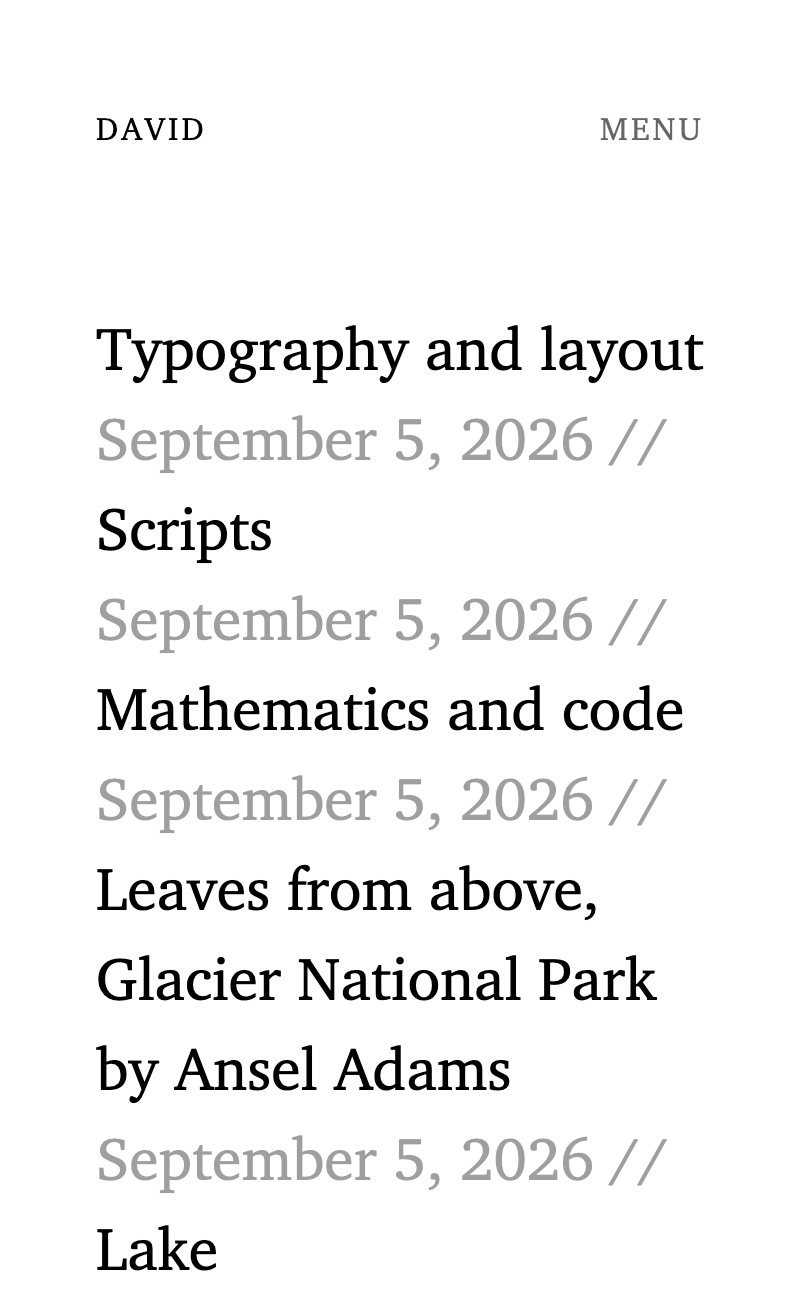
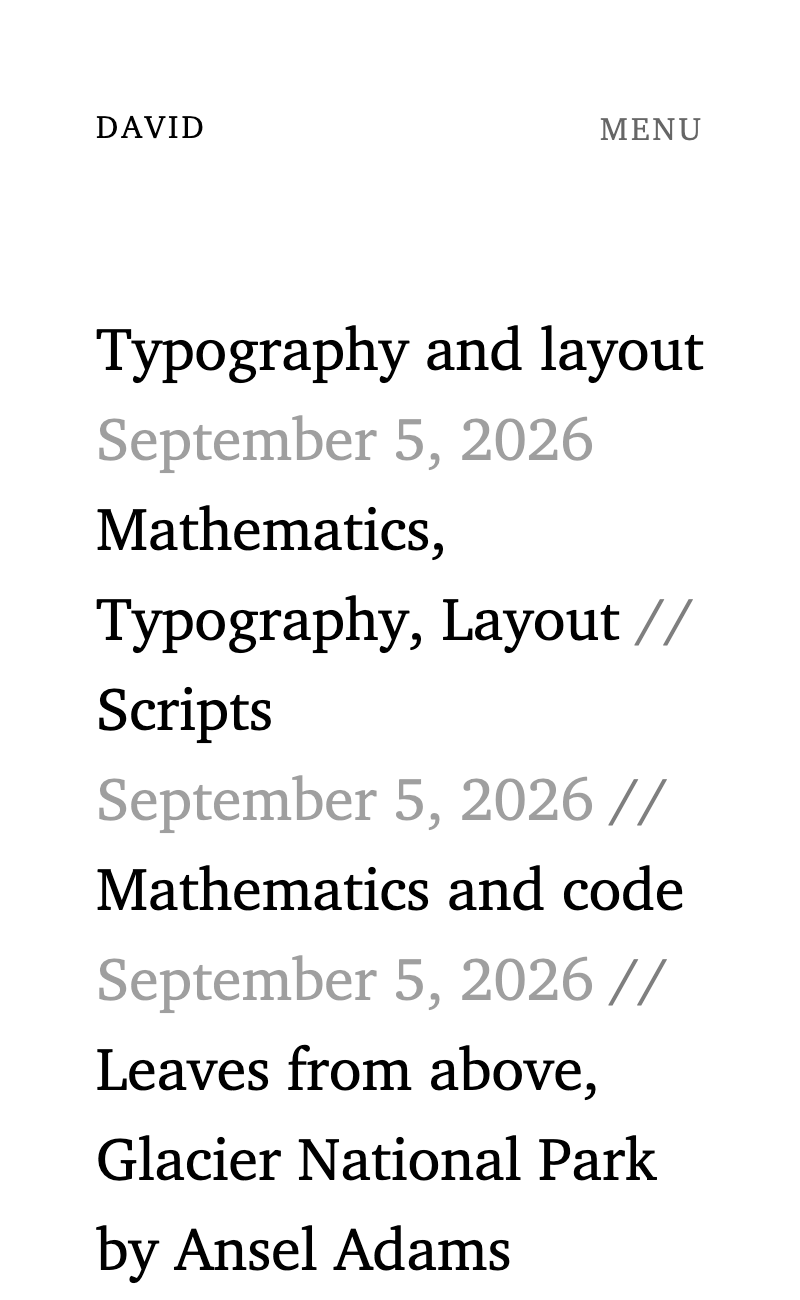
Expose Zine template settings as dashboard controls (#1667)
* Expose Zine template settings as dashboard controls

Wire unused date hiding, add heading/code fonts, logo/favicon uploads,
navigation alignment, sticky/collapsible menu, reading width, index
layout, and a tags toggle so authors can configure the template from
the dashboard.

* Updates screenshots of templates

* Fix Zine template dashboard controls

* Updates screenshots of templates

---------

diff --git a/app/templates/source/zine/style.css b/app/templates/source/zine/style.css
@@ -1,5 +1,6 @@
 {{{app_css}}}
 {{{body_font.styles}}}
+{{{heading_font.styles}}}
 {{{syntax_highlighter_font.styles}}}
 {{{syntax_highlighter.styles}}}
 
@@ -21,9 +22,16 @@ body {
 }
 
 .container {
-  max-width: 672px;
+  max-width: {{max_width}}px;
   padding: 3em 0 5em;
   margin: 0 auto;
+}
+
+.entries,
+.pagination {
+  max-width: {{max_width}}px;
+  margin-left: auto;
+  margin-right: auto;
 }
 
 .entries {
@@ -42,6 +50,11 @@ body {
 
 .entries a + span {opacity:0.75}
 
+{{#is.index_layout.list}}
+.entries .entry-item {display: block;}
+.entries .entry-sep {display: none;}
+{{/is.index_layout.list}}
+
 .light {
   color: rgba({{#rgb}}{{text_color}}{{/rgb}}, 0.5);
 }
@@ -50,7 +63,19 @@ body {
   text-decoration: none; color: inherit
 }
 
-h1, h2, h3, h4, h5, h6 {font-size: inherit;}
+h1, h2, h3, h4, h5, h6 {
+  {{#heading_font}}
+  font-family: {{{stack}}};
+  line-height: {{{line_height}}};
+  {{/heading_font}}
+}
+
+h1 { font-size: {{{heading_font.font_size}}}px; }
+h2 { font-size: calc({{{heading_font.font_size}}}px * 0.83); }
+h3 { font-size: calc({{{heading_font.font_size}}}px * 0.67); }
+h4 { font-size: calc({{{heading_font.font_size}}}px * 0.56); }
+h5 { font-size: calc({{{heading_font.font_size}}}px * 0.46); }
+h6 { font-size: calc({{{heading_font.font_size}}}px * 0.38); }
 
 h2, h3 {margin-top: 2em}
 
@@ -70,7 +95,26 @@ h1 a {
   align-items: stretch;
   gap: 0.5em;
   margin-bottom: 2em;
+  {{#is.navigation_alignment.left}}
+  align-items: flex-start;
+  {{/is.navigation_alignment.left}}
+  {{#is.navigation_alignment.right}}
+  align-items: flex-end;
+  {{/is.navigation_alignment.right}}
+  {{#is.navigation_alignment.center}}
+  align-items: center;
+  {{/is.navigation_alignment.center}}
 }
+
+{{#sticky_navigation}}
+.site-header {
+  position: sticky;
+  top: 0;
+  z-index: 2;
+  background: {{background_color}};
+  padding-top: 0.25em;
+}
+{{/sticky_navigation}}
 
 .site-nav-toggle-input {
   position: absolute;
@@ -87,18 +131,42 @@ h1 a {
 .site-header-bar {
   display: flex;
   align-items: center;
-  justify-content: space-between;
   gap: 0.5em;
+  {{#is.navigation_alignment.justified}}
+  justify-content: space-between;
+  {{/is.navigation_alignment.justified}}
+  {{#is.navigation_alignment.left}}
+  justify-content: flex-start;
+  {{/is.navigation_alignment.left}}
+  {{#is.navigation_alignment.right}}
+  justify-content: flex-end;
+  {{/is.navigation_alignment.right}}
+  {{#is.navigation_alignment.center}}
+  justify-content: center;
+  {{/is.navigation_alignment.center}}
 }
 
 .site-title {
-  font-size: calc({{{body_font.font_size}}}px * 0.6667);
+  {{#heading_font}}
+  font-family: {{{stack}}};
+  font-size: {{{font_size}}}px;
+  line-height: {{{line_height}}};
+  {{/heading_font}}
   font-weight: 400;
   margin: 0;
 }
 
+.site-title img {
+  max-height: 1.5em;
+  width: auto;
+  vertical-align: middle;
+}
+
 .site-menu-toggle {
-  font-size: calc({{{body_font.font_size}}}px * 0.6667);
+  {{#heading_font}}
+  font-family: {{{stack}}};
+  font-size: {{{font_size}}}px;
+  {{/heading_font}}
   text-transform: uppercase;
   letter-spacing: 0.1em;
   color: rgba({{#rgb}}{{text_color}}{{/rgb}}, 0.6);
@@ -134,6 +202,12 @@ h1 a {
   display: flex;
   flex-direction: column;
   gap: 0.5em;
+  {{#is.navigation_alignment.right}}
+  align-items: flex-end;
+  {{/is.navigation_alignment.right}}
+  {{#is.navigation_alignment.center}}
+  align-items: center;
+  {{/is.navigation_alignment.center}}
 }
 
 .site-nav li {
@@ -145,7 +219,10 @@ h1 a {
 .site-nav a {
   text-decoration: none;
   color: inherit;
-  font-size: calc({{{body_font.font_size}}}px * 0.6667);
+  {{#heading_font}}
+  font-family: {{{stack}}};
+  font-size: {{{font_size}}}px;
+  {{/heading_font}}
   letter-spacing: 0.1em;
   text-transform: uppercase;
 }
@@ -153,14 +230,25 @@ h1 a {
 .site-nav-spacer {
   display: none;
   margin:0 6px;
-  font-size: calc({{{body_font.font_size}}}px * 0.6667);
+  {{#heading_font}}
+  font-size: {{{font_size}}}px;
+  {{/heading_font}}
 }
 
 #site-nav-toggle:checked ~ .site-header-bar .site-menu-toggle {
   color: {{accent_color}};
 }
 
-.small, h1 {font-size: calc({{{body_font.font_size}}}px * 0.6667);}
+.small {
+  font-size: calc({{{body_font.font_size}}}px * 0.6667);
+}
+
+h1 {
+  {{#heading_font}}
+  font-size: {{{font_size}}}px;
+  line-height: {{{line_height}}};
+  {{/heading_font}}
+}
 
 .small a {color: inherit;}
 .small {color: rgba({{#rgb}}{{text_color}}{{/rgb}}, 0.6)}
@@ -239,11 +327,23 @@ input[type="submit"] {
 
 @media (min-width: 800px) {
 
+  {{^collapse_navigation_by_default}}
   .site-header {
     flex-direction: row;
     align-items: center;
-    justify-content: space-between;
     gap: 1em;
+    {{#is.navigation_alignment.justified}}
+    justify-content: space-between;
+    {{/is.navigation_alignment.justified}}
+    {{#is.navigation_alignment.left}}
+    justify-content: flex-start;
+    {{/is.navigation_alignment.left}}
+    {{#is.navigation_alignment.right}}
+    justify-content: flex-end;
+    {{/is.navigation_alignment.right}}
+    {{#is.navigation_alignment.center}}
+    justify-content: center;
+    {{/is.navigation_alignment.center}}
   }
 
   .site-header-bar {
@@ -273,6 +373,13 @@ input[type="submit"] {
   .site-nav-spacer {
     display: inline;
   }
+  {{/collapse_navigation_by_default}}
+
+  {{#collapse_navigation_by_default}}
+  .site-menu-toggle {
+    display: inline-block;
+  }
+  {{/collapse_navigation_by_default}}
 }
 
 {{> plugin}}

diff --git a/app/templates/source/zine/plugin.css b/app/templates/source/zine/plugin.css
@@ -17,97 +17,12 @@ blockquote.twitter-tweet p {margin: 0}
 /* IMAGE SIZE */
 img {max-width: 100%;height: auto;}
 
-/* CODE HIGHLIGHTING */
-
-
-pre, code {font: inherit;}
-
-.hljs {
-  display: block;
-  overflow-x: auto;
-}
-
-.hljs-comment,
-.hljs-quote {
-  color: rgba({{#rgb}}{{text_color}}{{/rgb}}, 0.6);
-  font-style: italic;
-}
-
-.hljs-keyword,
-.hljs-selector-tag,
-.hljs-subst {
-  color: {{text_color}};
-  font-weight: bold;
-}
-
-.hljs-number,
-.hljs-literal {
-  color: rgba({{#rgb}}{{text_color}}{{/rgb}}, 0.6);
-}
-
-.hljs-string,
-.hljs-doctag,
-.hljs-formula {
-  color: rgba({{#rgb}}{{text_color}}{{/rgb}}, 0.6);
-}
-
-.hljs-title,
-.hljs-section,
-.hljs-selector-id {
-  color: {{text_color}};
-  font-weight: bold;
-}
-
-.hljs-subst {
-  font-weight: normal;
-}
-
-.hljs-class .hljs-title,
-.hljs-type,
-.hljs-name {
-  color: rgba({{#rgb}}{{text_color}}{{/rgb}}, 0.6);
-  font-weight: bold;
-}
-
-.hljs-tag {
-  color: rgba({{#rgb}}{{text_color}}{{/rgb}}, 0.6);
-}
-
-.hljs-regexp {
-    color: rgba({{#rgb}}{{text_color}}{{/rgb}}, 0.6);
-}
-
-.hljs-symbol,
-.hljs-bullet,
-.hljs-link {
-  color: {{text_color}};
-}
-
-.hljs-built_in,
-.hljs-builtin-name {
-  color: {{text_color}};
-  text-decoration: underline;
-}
-
-.hljs-meta {
-  color: rgba({{#rgb}}{{text_color}}{{/rgb}}, 0.4);
-  font-weight: bold;
-}
-
-.hljs-deletion {
-  color: {{background_color}};
-}
-
-.hljs-addition {
-  color: {{text_color}};
-}
-
-.hljs-emphasis {
-  font-style: italic;
-}
-
-.hljs-strong {
-  font-weight: bold;
+/* CODE */
+pre, code {
+  {{#syntax_highlighter_font}}
+  font-family: {{{stack}}};
+  font-size: {{{font_size}}}px;
+  {{/syntax_highlighter_font}}
 }
 
 

diff --git a/app/templates/source/zine/entries.html b/app/templates/source/zine/entries.html
@@ -6,11 +6,9 @@
 
     <p class="entries">
       {{#posts}}
-      <span class="entry"
+      <span class="entry entry-item"
         ><a href="{{{url}}}"><span>{{title}}</span></a
-        > <span class="entry-date"
-          ><span class="light">{{date}}{{^last}} //{{/last}}</span></span
-        ></span
+        >{{#date}} <span class="entry-date"><span class="light">{{date}}</span></span>{{/date}}{{#show_tags}}{{#tags.length}} <span class="entry-tags">{{#tags}}<a class="light" href="/tagged/{{slug}}">{{name}}</a>{{^last}}, {{/last}}{{/tags}}</span>{{/tags.length}}{{/show_tags}}{{^last}} <span class="light entry-sep">//</span>{{/last}}</span
       >
       {{/posts}}
     </p>

diff --git a/app/templates/source/zine/_head.html b/app/templates/source/zine/_head.html
@@ -12,7 +12,8 @@
     {{^entry}}<meta name="description" content="{{> description}}">{{/entry}}
 
     <link rel="alternate" type="application/rss+xml" title="RSS Feed for {{title}}" href="{{{siteURL}}}{{{feedURL}}}">
-    {{#avatar}}<link rel="icon" href="{{{avatar}}}" type="image/x-icon">{{/avatar}}
+    {{#favicon_url}}<link rel="icon" href="{{{favicon_url}}}" type="image/x-icon">{{/favicon_url}}
+    {{^favicon_url}}{{#avatar}}<link rel="icon" href="{{{avatar}}}" type="image/x-icon">{{/avatar}}{{/favicon_url}}
     <link rel="preconnect" href="{{{cdn}}}" />
     <link rel="stylesheet" href="{{#cdn}}/style.css{{/cdn}}">
 

diff --git a/app/templates/source/zine/_header.html b/app/templates/source/zine/_header.html
@@ -1,7 +1,7 @@
 <header class="site-header">
   <input type="checkbox" id="site-nav-toggle" class="site-nav-toggle-input" aria-label="Toggle navigation" aria-controls="site-menu" />
   <div class="site-header-bar">
-    <h1 class="site-title"><a href="/">{{title}}</a></h1>
+    <h1 class="site-title"><a href="/">{{#logo_url}}<img src="{{{logo_url}}}" alt="{{title}}">{{/logo_url}}{{^logo_url}}{{title}}{{/logo_url}}</a></h1>
     <label for="site-nav-toggle" class="site-menu-toggle">menu</label>
   </div>
   <nav id="site-menu" class="site-nav" aria-label="Main menu">

diff --git a/app/templates/source/zine/entry.html b/app/templates/source/zine/entry.html
@@ -18,11 +18,13 @@
           {{date}}
           {{/date}}
 
+          {{#show_tags}}
           {{#tags.length}}
             {{#tags}}
             – <a class="light" href="/tagged/{{slug}}">{{name}}</a>
             {{/tags}}
           {{/tags.length}}
+          {{/show_tags}}
         </span>
         </p>
         <br>

diff --git a/app/templates/source/zine/tagged.html b/app/templates/source/zine/tagged.html
@@ -7,7 +7,7 @@
       <h1>{{tag}}</h1><br>
       {{#entries}}
       <a href="{{{url}}}">{{title}}</a>
-      <span class="small">{{date}}</span>
+      {{#date}}<span class="small">{{date}}</span>{{/date}}
       <br>
       {{/entries}}
       <br>

diff --git a/app/templates/source/zine/search.html b/app/templates/source/zine/search.html
@@ -18,7 +18,7 @@
 
       {{#entries}}
         <a href="{{{url}}}">{{title}}</a>
-        <span class="small">{{date}}</span>
+        {{#date}}<span class="small">{{date}}</span>{{/date}}
         <br>
       {{/entries}}
     </div>
